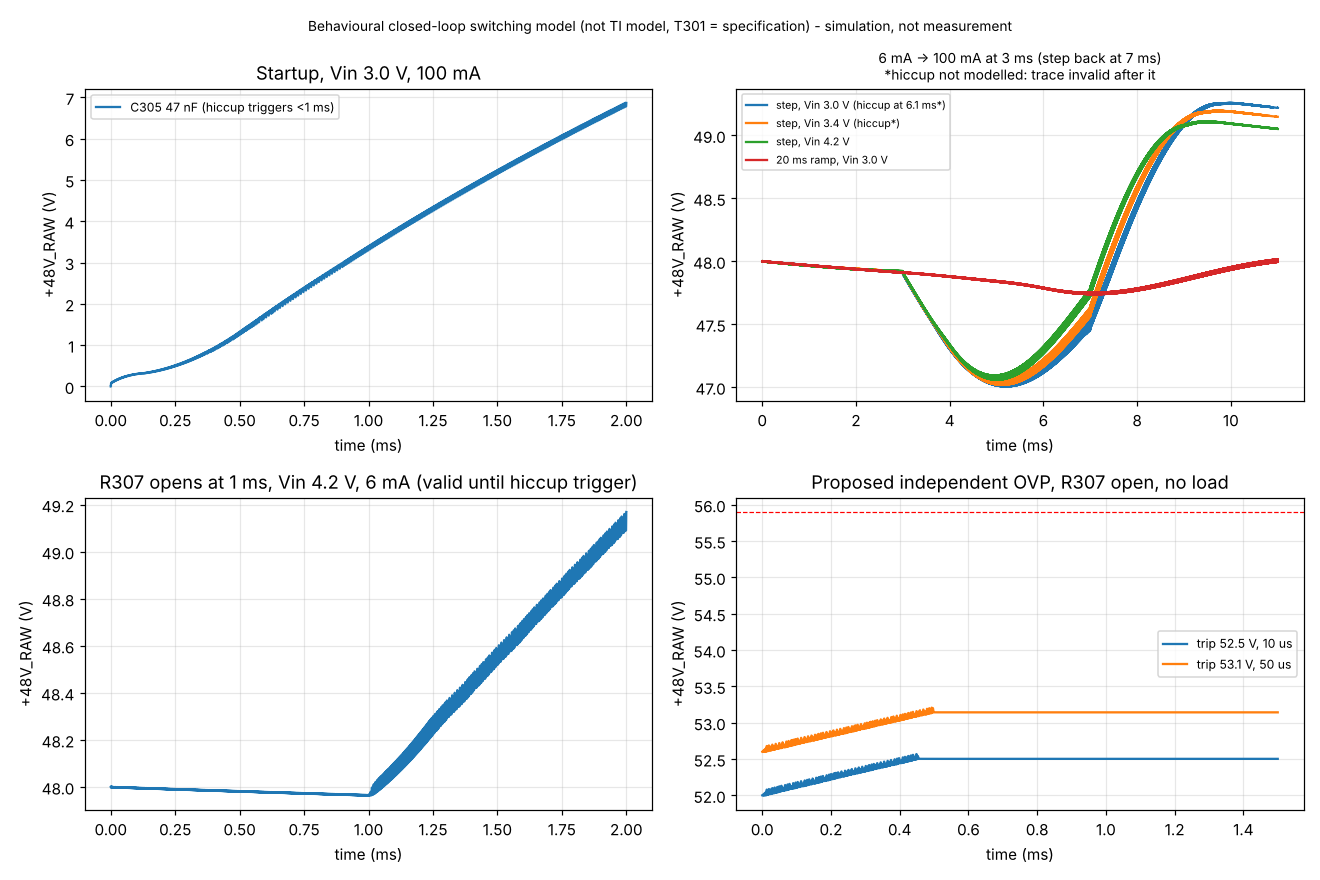
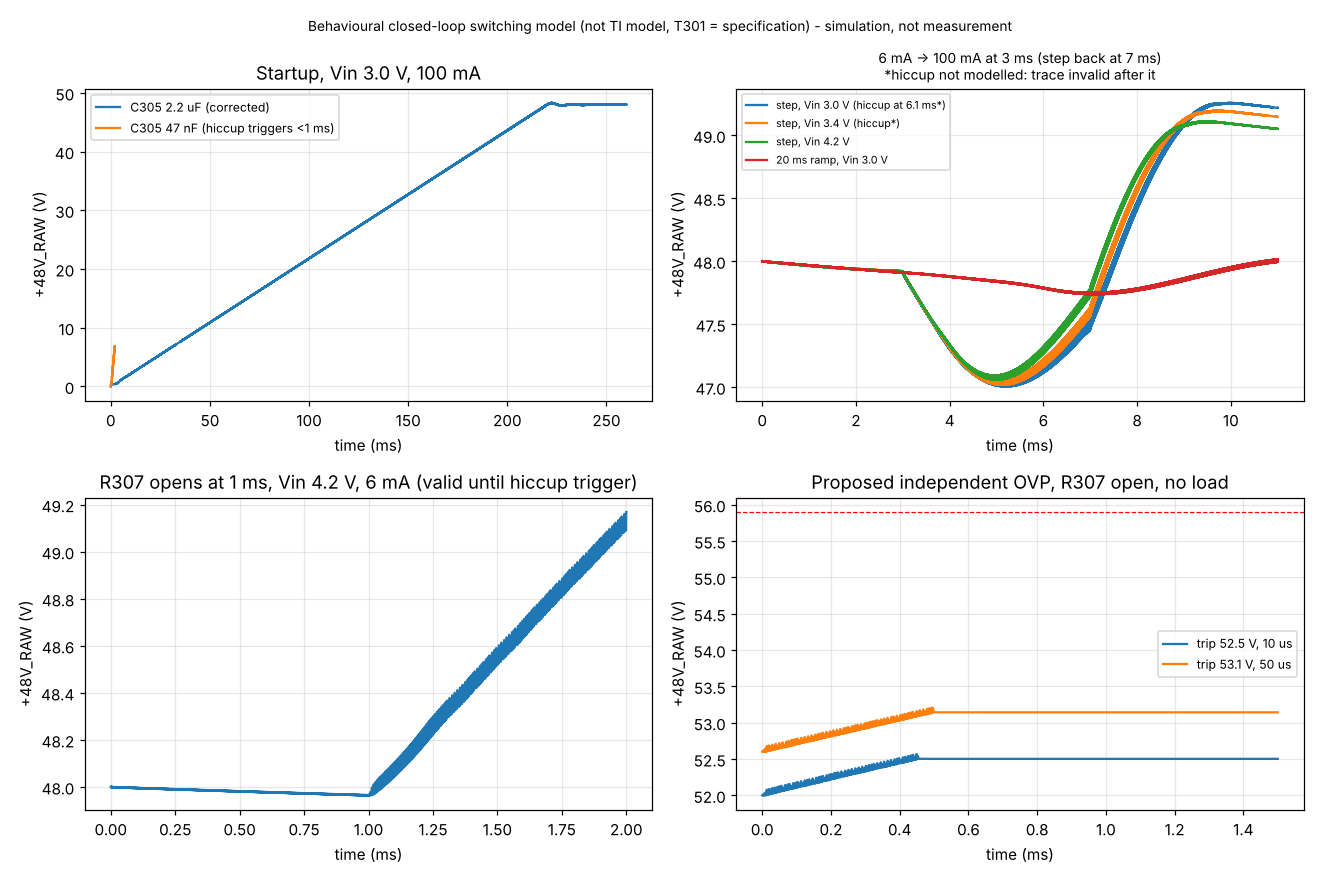
Long switching-model startup result: hiccup at end of soft start under full load at 3.0 V -> FW-R2 (motor parked until PGOOD)

diff --git a/docs/report/PROJECT_ENGINEERING_REPORT.md b/docs/report/PROJECT_ENGINEERING_REPORT.md
@@ -455,7 +455,8 @@ The 48 V converter is power-limited at low cell voltage: a 100 mA load **step** 
 
 | Item | Result | Label |
 | --- | --- | --- |
-| Startup (C305 2.2 µF, 3.0 V 100 mA and 4.2 V 6 mA) | No hiccup, PGOOD at ≈ 209 ms, peak 48.2–48.4 V | SIM (cycle model; switching-model cross-check §27.2) |
+| Startup (C305 2.2 µF), idle load (PMD401 parked, 6 mA) | No hiccup, PGOOD at ≈ 209 ms, peak ≤ 48.4 V | SIM (cycle model) |
+| Startup (C305 2.2 µF) into a full 100 mA load at 3.0 V | Reaches 47.5 V at 218 ms, but the hiccup rule triggers at **214 ms** (soft-start charge current 33 mA on top of full load exceeds the converter's capability at 3.0 V with losses); the lossless cycle model does not show this | SIM (switching model) → FW-R2: keep the PMD401 parked until PGOOD (already the hardware default) |
 | Load step 6 → 100 mA | Dip 0.9 V; **hiccup about 3 ms after the step at 3.0 and 3.4 V**, none at 4.2 V | SIM |
 | Same load as a 20 ms ramp, 3.0 V | Dip 0.19 V, no hiccup, η ≈ 83 % | SIM |
 | Unload 100 → 6 mA | Overshoot +1.3 V | SIM |
@@ -668,7 +669,7 @@ No route was forced through congested or high-voltage areas. Both new routes kee
 **Design review (1 Nov):** `docs/handover/FIRMWARE_DESIGN_REVIEW.md` checks each firmware function against the hardware and lists everything not implemented. New firmware requirements from this revision:
 
 - **FW-R1:** ramp PMD401 speed changes over ≥ 20 ms (§27.2).
-- **FW-R2:** after enabling 48 V, wait for FLY_PGOOD (soft start now about 220 ms).
+- **FW-R2:** after enabling 48 V, keep the PMD401 parked and wait for FLY_PGOOD (soft start now about 220 ms); starting into full load at 3.0 V trips hiccup [SIM].
 - **FW-R3:** send no SPI keep-alive when stopping; the timeout is the stop mechanism.
 - **FW-R4:** supervisor IWDG ≤ 10 ms.
 
@@ -816,7 +817,8 @@ Three model levels, each with stated scope. No model includes the real transform
 | --- | --- | --- |
 | C305 47 nF, 3.0 V, 100 mA | Current limit within 1 ms, **hiccup at 0.78 ms**; rail stuck below 9 V after 6 hiccup cycles in 0.6 s | level 2 + 3 |
 | C305 sweep, worst case (V<sub>CLTH</sub> 93 mV, I<sub>SS</sub> 11 µA, V<sub>REF</sub> 1.01, 3.0 V) | 47–680 nF: hiccup. 1 µF: hiccup at 100 mA. **≥ 1.5 µF: clean start** at 6 mA and 100 mA | level 3 |
-| 2.2 µF, 3.0 V, 100 mA / 4.2 V, 6 mA | PGOOD at 209 ms, V<sub>max</sub> 48.2–48.4 V, no hiccup | level 3 |
+| 2.2 µF, 3.0 V, 100 mA / 4.2 V, 6 mA | PGOOD at 209 ms, V<sub>max</sub> 48.2–48.4 V, no hiccup | level 3 (lossless) |
+| 2.2 µF, 3.0 V, **100 mA during startup**, switching model with losses (260 ms run) | 47.5 V at 218 ms, steady 47.99 V, ripple 45 mV, P<sub>out</sub> 4.80 W, I<sub>in</sub> 1.94 A; **hiccup trigger at 214 ms** (end of soft start). With the motor parked during startup (6 mA, the hardware default) the start is clean (level 3) | level 2 |
 | Load step 6 → 100 mA, 3.0 V | Dip to 47.0 V; **hiccup trigger 3.1 ms after the step** | level 2 |
 | Load step 6 → 100 mA, 3.4 V | Dip to 47.0 V; **hiccup trigger 3.2 ms after the step** | level 2 |
 | Load step 6 → 100 mA, 4.2 V | Dip to 47.1 V; no hiccup; unload overshoot +1.2 V | level 2 |

diff --git a/docs/handover/OWNER_APPROVAL_SHEET.md b/docs/handover/OWNER_APPROVAL_SHEET.md
@@ -24,7 +24,7 @@ The device is a water/saline bench prototype only. It must never be connected to
 | # | Decision | Recommended option | Key numbers | Consequence |
 | --- | --- | --- | --- | --- |
 | 7 | **Transformer T301** (U-04) | Custom winding to the `FLYBACK_DESIGN.md` specification, with **I<sub>sat</sub> raised to ≥ 6.5 A** (see 8); in parallel, check Coilcraft Hexa-Path parts against it | Primary RMS 2.30 A, secondary RMS 0.21 A; n = 5, L<sub>p</sub> 7.3 µH (5–10 µH), leakage ≤ 2 % [CALC] | Footprint, clamp/snubber re-tune, loop re-simulation, layout loop compaction |
-| 8 | **Current-limit headroom** (new: load steps) | **Firmware requirement FW-R1:** ramp every PMD401 speed change over ≥ 20 ms. Optional extra margin: R305 22 → 18 mΩ (limit 5.2–5.9 A) together with T301 I<sub>sat</sub> ≥ 6.5 A | A 6 → 100 mA **step** trips the LM51551 hiccup about 3 ms after the step at Vin 3.0 V and 3.4 V (none at 4.2 V); the 48 V rail would then stop for 110 ms. The same demand as a **20 ms ramp** at 3.0 V: no hiccup, dip 0.19 V, peak 3.39 A, V<sub>DS</sub> 18.4 V, about 83 % efficiency [SIM switching model + hiccup rule] | FW-R1 is firmware only. The R305 option is a value change (2512 footprint kept) plus a T301 spec change |
+| 8 | **Current-limit headroom** (new: load steps) | **Firmware requirement FW-R1:** ramp every PMD401 speed change over ≥ 20 ms. Optional extra margin: R305 22 → 18 mΩ (limit 5.2–5.9 A) together with T301 I<sub>sat</sub> ≥ 6.5 A | A 6 → 100 mA **step** trips the LM51551 hiccup about 3 ms after the step at Vin 3.0 V and 3.4 V (none at 4.2 V); the 48 V rail would then stop for 110 ms. The same demand as a **20 ms ramp** at 3.0 V: no hiccup, dip 0.19 V, peak 3.39 A, V<sub>DS</sub> 18.4 V, about 83 % efficiency [SIM switching model + hiccup rule] | FW-R1 is firmware only; FW-R2 (motor parked until PGOOD) also needed, because startup into full load at 3.0 V trips hiccup [SIM]. The R305 option is a value change (2512 footprint kept) plus a T301 spec change |
 | 9 | **Q301 voltage margin** (new; fault and current-limit operation) | Re-tune the RCD clamp (R306/C308) with the real T301 for V<sub>DS</sub> ≤ 20 V **at current limit**, or move to a 30–40 V NexFET with Q<sub>g</sub> ≤ 6.5 nC | V<sub>DS</sub> 18.4–18.7 V in normal operation (including the 20 ms ramp), but 22–24 V on 100 mA load steps and about 25.7 V (model breakdown) at current limit with V<sub>out</sub> ≥ 48 V, against 25 V V<sub>DS</sub> [DS]; E<sub>AS</sub> 80 mJ single pulse [DS] | Part or value change after T301 |
 | 10 | **Q301 footprint** | Move the four pads to TI's exact 0.65 mm pitch (SLPS247E §7.2) | Present footprint matches within 5 µm; removes a 0.127 mm DRU exception | Footprint edit; re-route Q301 pins |
 | 11 | **R313 snubber resistor** | ≥ 0.5 W (2010/2512), ≥ 200 V | 0.14–0.17 W [SIM]; sees about 100 V peak | Footprint change |

diff --git a/docs/handover/PROGRESS_LOG.md b/docs/handover/PROGRESS_LOG.md
@@ -7,16 +7,17 @@ Update this file at every checkpoint. Newest first.
 | Step | Result | Commit |
 | --- | --- | --- |
 | Baseline | HEAD `7cc348e`, clean tree. pcbcheck: 24 unconnected on 19 nets, matching CI run 2 | — |
-| Closed-loop flyback modelling | Level 2 (ngspice behavioural) and level 3 (cycle model) built from SNVSB75E; they agree with each other and with level 1 | `a768755` and the following documentation commit |
+| Closed-loop flyback modelling | Level 2 (ngspice behavioural) and level 3 (cycle model) built from SNVSB75E; they agree with each other and with level 1 | `a768755`, `15707e8`, `c10dbe4` |
 | Soft-start finding | 47 nF → hiccup lock-out; C305 = 2.2 µF applied to design.py, schematic and PCB | `a768755` |
 | Routing | ENC_I_M and VBAT_SENSE routed; 22 unconnected | `a768755` |
-| KiCad CI | Run 4 on `a768755`: ERC 6 + 1 (unchanged), DRC 0 copper, 0 parity, 0 footprint errors, 22 unconnected, 122 silk. Reports archived | following commit |
-| Load-step study | Hiccup on 100 mA steps at 3.0/3.4 V; a 20 ms ramp avoids it → FW-R1 | following commit |
-| Fault studies | Open R307: ratchet to 100 V in 2.9 s at no load; proposed OVP latches at 52.5 V. Short: hiccup in 0.23 ms | following commit |
-| Runaway timing | S-06 met with the SPI gate only if the PMD401 timeout ≤ 18 ms | following commit |
-| ST evidence | NUCLEO-WBA55CG reference firmware: SMPS supply, HSE 32 MHz, LSE for RTC and radio | following commit |
-| BOM | `bom_full.csv` with selection classes; reference set identical to the kicad-cli export | following commit |
-| Documentation | 36-section report, approval sheet, fabrication blockers, firmware review, file index; register U-39 to U-44, A-28 to A-30, decision log §10 | following commit |
+| KiCad CI | Run 4 on `a768755`: ERC 6 + 1 (unchanged), DRC 0 copper, 0 parity, 0 footprint errors, 22 unconnected, 122 silk. Reports archived | `15707e8` |
+| Load-step study | Hiccup on 100 mA steps at 3.0/3.4 V; a 20 ms ramp avoids it → FW-R1 | `15707e8` |
+| Fault studies | Open R307: ratchet to 100 V in 2.9 s at no load; proposed OVP latches at 52.5 V. Short: hiccup in 0.23 ms | `15707e8` |
+| Runaway timing | S-06 met with the SPI gate only if the PMD401 timeout ≤ 18 ms | `15707e8` |
+| ST evidence | NUCLEO-WBA55CG reference firmware: SMPS supply, HSE 32 MHz, LSE for RTC and radio | `15707e8` |
+| BOM | `bom_full.csv` with selection classes; reference set identical to the kicad-cli export | `15707e8` |
+| Long switching startup run (260 ms, 3.0 V, 100 mA during startup) | Regulates (47.99 V, 4.80 W, 1.94 A in) but the hiccup rule triggers at 214 ms → FW-R2: keep the motor parked until PGOOD | final commit of the session |
+| Documentation | 36-section report, approval sheet, fabrication blockers, firmware review, file index; register U-39 to U-44, A-28 to A-30, decision log §10 | `15707e8` |
 
 ## Where to resume
 

diff --git a/docs/handover/FIRMWARE_DESIGN_REVIEW.md b/docs/handover/FIRMWARE_DESIGN_REVIEW.md
@@ -19,7 +19,7 @@ So, by design, a fault in the main MCU firmware alone cannot keep the motor runn
 | Function | Hardware provided | Firmware required | Findings |
 | --- | --- | --- | --- |
 | Dosing control | SPI3 to PMD401 servo mode (16-bit speed); TIM2 encoder (A/B/I); Ready/Fault inputs | Position loop on the encoder; dose state machine IDLE → UNPARK → MOVE → SETTLE → IDLE, FAULT from every state (F-02) | **New requirement FW-R1:** ramp PMD401 speed changes over ≥ 20 ms. A 100 mA load step below about 4 V trips the LM51551 hiccup; the same demand as a 20 ms ramp does not (report §27, simulation only) |
-| Startup sequence | FLY_EN (PB7), FLY_PGOOD (PA12, still unrouted), veto and park from the supervisor | Supervisor releases the veto only after the heartbeat is valid. Main MCU enables 48 V, **waits for FLY_PGOOD**, then unparks | **New:** the 48 V soft start is now about 220 ms (C305 2.2 µF). Firmware must wait ≥ 300 ms or for PGOOD, never a fixed short delay |
+| Startup sequence | FLY_EN (PB7), FLY_PGOOD (PA12, still unrouted), veto and park from the supervisor | Supervisor releases the veto only after the heartbeat is valid. Main MCU enables 48 V, **waits for FLY_PGOOD**, then unparks | **New:** the 48 V soft start is now about 220 ms (C305 2.2 µF). Firmware must wait ≥ 300 ms or for PGOOD, never a fixed short delay, and must keep the PMD401 parked (idle load) until PGOOD: starting into a full 100 mA load at 3.0 V trips hiccup at the end of the soft start [SIM switching model] |
 | Shutdown sequence | Speed 0 → park → FLY_EN low → veto | Order as in the report §23 sequence diagram | E-11 discharge needs the bleeder (decision 3) |
 | PMD401 SPI | Mode 3, ≤ 500 kbit/s (manual) | Send a speed word every < 10 ms while moving, and none when stopped | The SPI timeout is the stop mechanism, so the main MCU must not send keep-alive frames when it intends to stop |
 | Encoder | TIM2 (main), TIM3 (supervisor), both from the same encoder | 32-bit position extension; plausibility check of commanded against measured travel | An encoder failure defeats both counts; plausibility check is required (S-07) |

diff --git a/validation/sim/ngspice_closedloop/results.md b/validation/sim/ngspice_closedloop/results.md
@@ -10,7 +10,7 @@ ngspice: `** ngspice-42 : Circuit level simulation program`
 | Case | Converged | Result |
 |---|---|---|
 | startup_3v0_100mA_css47n | yes | C305=47n; hiccup_trigger_t=0.0007785s; iin_end=-1.413; ipri_max=4.679; vd1_max=30.25; vds_max=20.93; vout_end=5.183; vout_max=6.875 |
-| startup_3v0_100mA_css2u2 | NO RESULT (run incomplete) | C305=2.2u; hiccup_trigger_t=not reached |
+| startup_3v0_100mA_css2u2 | yes | C305=2.2u; hiccup_trigger_t=0.2139s; iin_end=-1.943; ipri_max=4.185; pout_end=4.798; t_reg=0.2176s; vd1_max=88.6; vds_max=20.82; vout_end=47.99; vout_max=48.3; vpp_end=0.04521 |
 | loadstep_3v0 | yes | C305=2.2u; hiccup_trigger_t=0.006064s; iin_100ma=-2.975; iin_end=-0.07153; ipri_max=5.261; pout_100ma=4.66; vd1_max=89.43; vds_max=23.84; vmax_unload=49.26; vmin_step=47.01; vout_end=49.24; vout_max=49.26; vpp_100ma=0.4147; vpre=47.92 |
 | loadstep_3v4 | yes | C305=2.2u; hiccup_trigger_t=0.006245s; iin_100ma=-2.703; iin_end=-0.03175; ipri_max=4.617; pout_100ma=4.675; vd1_max=91.93; vds_max=22.73; vmax_unload=49.2; vmin_step=47.02; vout_end=49.17; vout_max=49.2; vpp_100ma=0.4693; vpre=47.93 |
 | loadramp_3v0_20ms | yes | C305=2.2u; hiccup_trigger_t=not reached; iin_100ma=-1.931; iin_end=-1.914; ipri_max=3.392; vd1_max=88.23; vds_max=18.43; vend_100ma=48.03; vmin_ramp=47.74; vout_end=48.02; vout_max=48.06; vpre=47.92 |

diff --git a/docs/handover/UNRESOLVED_ISSUES.md b/docs/handover/UNRESOLVED_ISSUES.md
@@ -22,7 +22,7 @@ Item numbers in brackets (for example "item 4", "B.16") refer to `requirements/O
 
 | ID | Was | Resolution |
 | --- | --- | --- |
-| U-39 | **Soft-start lock-out (found 1 Nov by simulation).** C305 47 nF gave a 4.7 ms soft start that needs 1.54 A to charge 151 µF; the LM51551 would run at current limit, arm its 64-cycle hiccup and never reach 48 V | C305 = 2.2 µF (220 ms; worst-case minimum 1.5 µF), commit `a768755`. CALC + SIM (`sim_flyback_cycle.py`, `sim_flyback_closedloop.py`); bench test PW-SS still needed |
+| U-39 | **Soft-start lock-out (found 1 Nov by simulation).** C305 47 nF gave a 4.7 ms soft start that needs 1.54 A to charge 151 µF; the LM51551 would run at current limit, arm its 64-cycle hiccup and never reach 48 V | C305 = 2.2 µF (220 ms; worst-case minimum 1.5 µF), commit `a768755`. CALC + SIM (`sim_flyback_cycle.py`, `sim_flyback_closedloop.py`); bench test PW-SS still needed. Residual: starting into a full 100 mA load at 3.0 V still trips hiccup at the end of the soft start (switching model); covered by keeping the motor parked until PGOOD (FW-R2, hardware default) |
 | (U-21 part) | ENC_I_M and VBAT_SENSE unconnected | Routed 1 Nov (`layout_fixes_3.py`); kicad-cli CI run 4: 22 unconnected |
 
 ## Critical
